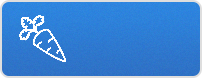
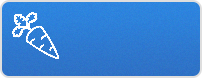
styling

Changed region(s): [[0.0594, 0.1538, 0.3267, 0.7949]]

diff --git a/_layouts/default.html b/_layouts/default.html
@@ -108,14 +108,14 @@
             </div>
 
 
-            <p class="rss-subscribe"><a href="{{ "/feed.xml" | prepend: site.baseurl }}" class="button"><img src='{{ site.baseurl }}/img/rss.svg' alt='RSS'/></a></p>
+            <p class="rss-subscribe"><a href="{{ "/feed.xml" | prepend: site.baseurl }}" class="button rss"><img src='{{ site.baseurl }}/img/rss.svg' alt='RSS'/></a></p>
 
 
             {% if site.github.is_project_page %}
-              <a href="{{ site.github.repository_url }}" class="button"><small>Voir sur</small> GitHub</a>
+              <a href="{{ site.github.repository_url }}" class="button git"><small>Voir sur</small> GitHub</a>
             {% endif %}
             {% if site.github.is_user_page %}
-              <a href="{{ site.github.repository_url }}" class="button"><small>Suivez moi sur</small> GitHub</a>
+              <a href="{{ site.github.repository_url }}" class="button git"><small>Suivez moi sur</small> GitHub</a>
             {% endif %}
 
           {% if site.github.is_project_page %}

diff --git a/assets/css/style.scss b/assets/css/style.scss
@@ -23,6 +23,13 @@ div.menu a.button {
 div.menu a.ingredients {
   background: url(../../img/ingredients-button.png) !important;
 }
+a.rss {
+  background: url(../../img/rss-button.png) !important;
+}
+a.git {
+  background: url(../../img/github-button.png) !important;
+}
+
 div.menu:hover ul.sub-menu {
   display:block;
   list-style-type: none;
